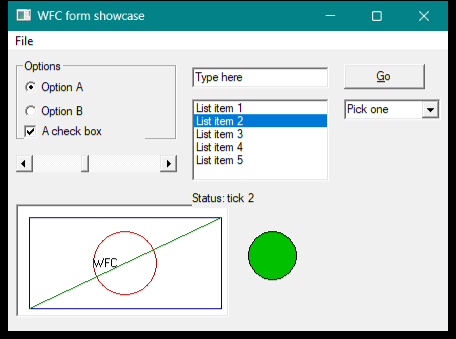
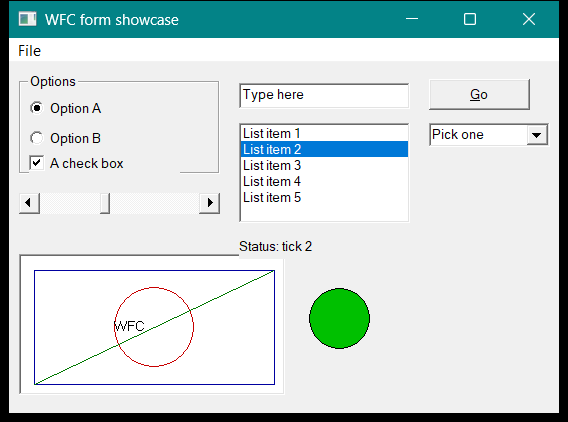
Add progress screenshots to the README

diff --git a/README.MD b/README.MD
@@ -13,15 +13,32 @@ runtime and engineering-process foundations.
 
 ## Current Progress
 
-A real VB6 form project (`tests/gui/gui-showcase.vbp`) running in native Win32
-windows, captured by the test suite: frames and option buttons, a check box,
-text box, command button with an accelerator, list box, combo box, scroll bar,
-a label updated by a `Timer`, a menu bar, a picture box drawn with `Line`,
-`Circle` and `Print`, and a `Shape`. The language runtime (MP-0002) and classes,
-projects and COM Automation (MP-0003) are complete; forms and controls
-(MP-0004) are in progress (see its [work log](planning/work-log-mp-0004.md)).
+Milestones MP-0002 through MP-0007 are closed: the VB/VBA language runtime,
+classes, projects and COM Automation, forms and intrinsic controls, ActiveX
+hosting and component authoring, the nine `MSComctlLib` common controls, and
+packaged programs (`wfc --build`). Next is MP-0008 (running real VB6 projects,
+starting with archived games) and then MP-0009 (native x86, AMD64 and ARM64
+code generation). See [the roadmap](planning/roadmap-1.0.md).
+
+The captures below come from the test suite, running real VB6 form projects in
+native Win32 windows.
+
+**Common controls (MP-0006).** Toolbar, tab strip, progress bar, slider,
+image combo, tree view, list view and status bar, with images from an
+`ImageList` (`tests/gui/gui-comctl.vbp`):
+
+![MSComctlLib controls in a native window](evidence/screenshots/gui-comctl-closing.png)
+
+**Intrinsic controls (MP-0004).** Frames, option and check boxes, text box,
+list and combo boxes, scroll bar, a timer-driven label, a menu bar, and a
+picture box drawn with `Line`, `Circle` and `Print`
+(`tests/gui/gui-showcase.vbp`):
 
 ![WFC running the form showcase in a native window](evidence/screenshots/gui-showcase-closing.png)
+
+**MDI forms (MP-0004).** A parent form with a child window:
+
+![An MDI parent and child form](evidence/screenshots/gui-mdi-closing.png)
 
 ## Planning
 
